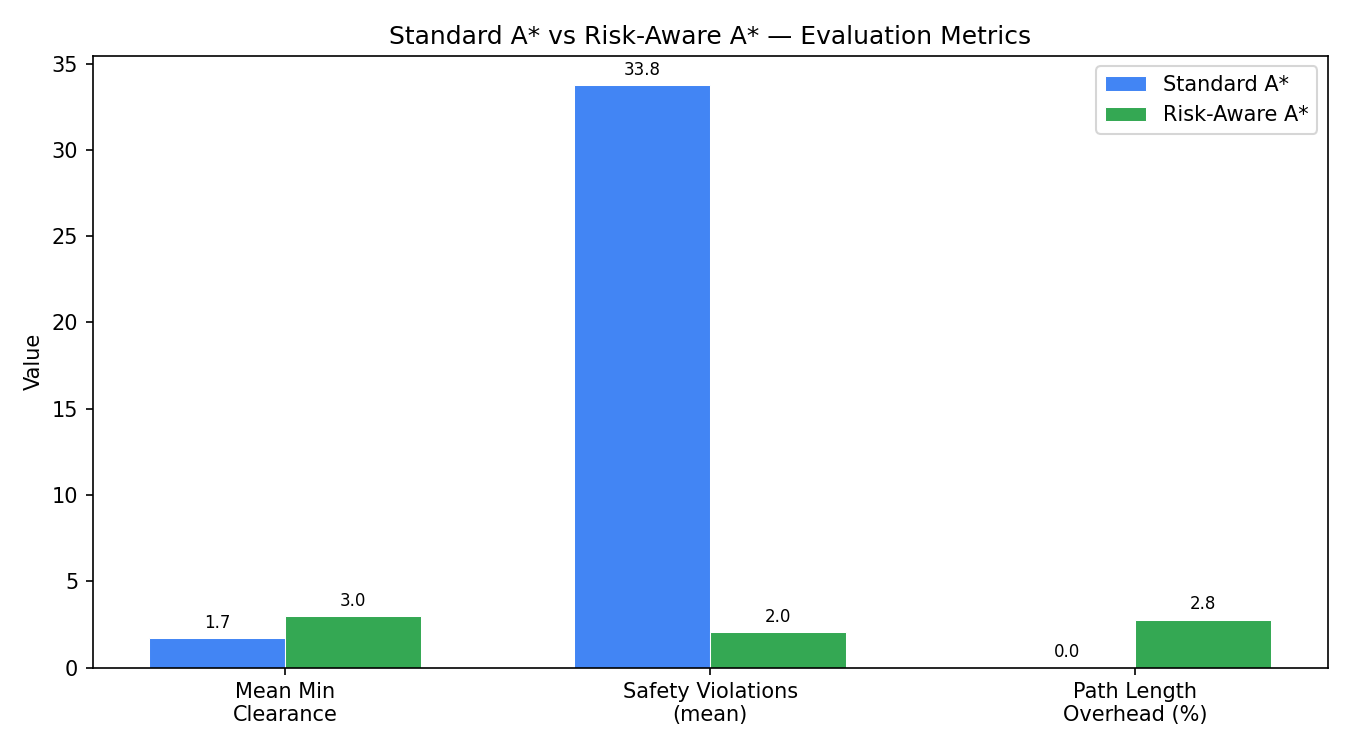
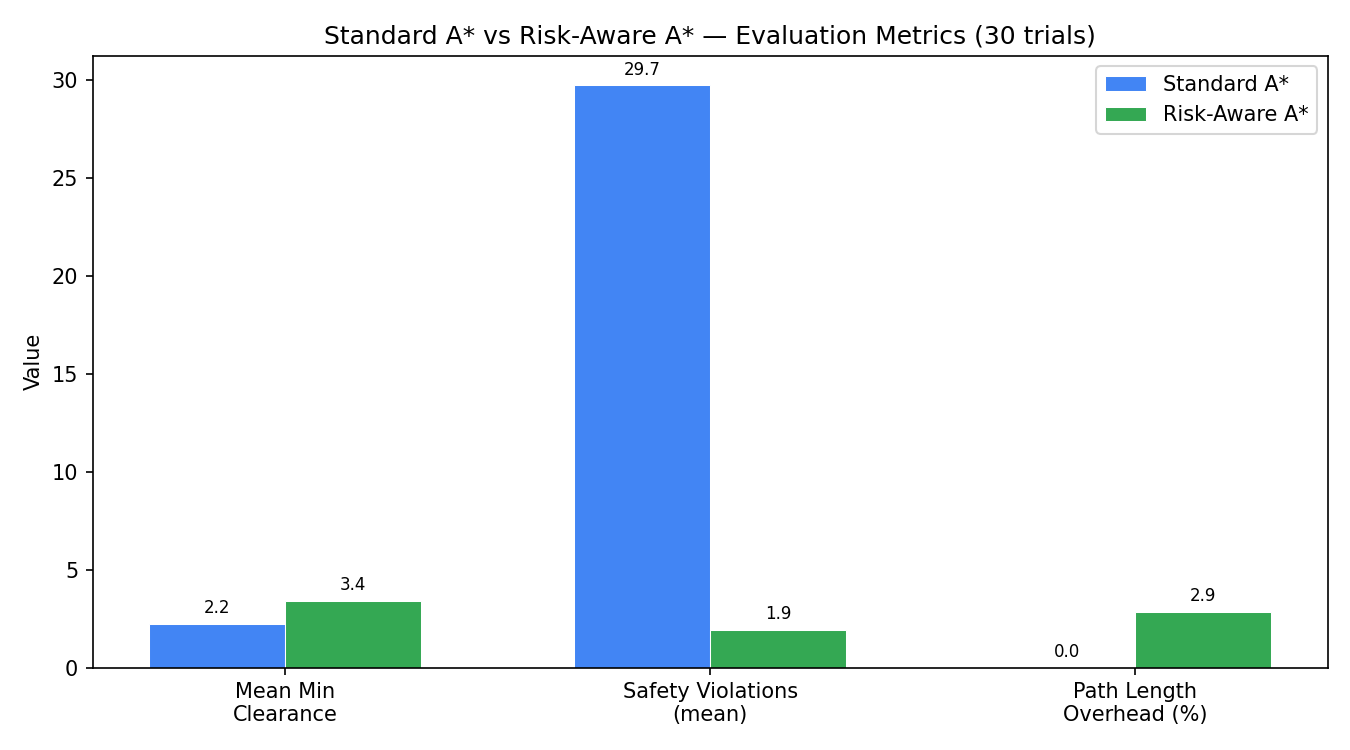
Increase Monte Carlo evaluation to 30 trials as stated in midterm report section 5.2

diff --git a/simulation/evaluate.py b/simulation/evaluate.py
@@ -146,7 +146,7 @@ def risk_astar(grid, risk_map, start, goal, lambda_weight=8.0):
 # Evaluation
 # ---------------------------------------------------------------------------
 
-def evaluate(n_trials=20, seed=42):
+def evaluate(n_trials=30, seed=42):
     np.random.seed(seed)
     grid, risk_map, dist_map = _generate_hospital_grid()
 
@@ -245,7 +245,7 @@ def evaluate(n_trials=20, seed=42):
                    color="#34A853", edgecolor="white", linewidth=0.5)
 
     ax.set_ylabel("Value")
-    ax.set_title("Standard A* vs Risk-Aware A* — Evaluation Metrics")
+    ax.set_title("Standard A* vs Risk-Aware A* — Evaluation Metrics (30 trials)")
     ax.set_xticks(x)
     ax.set_xticklabels(labels)
     ax.legend()
